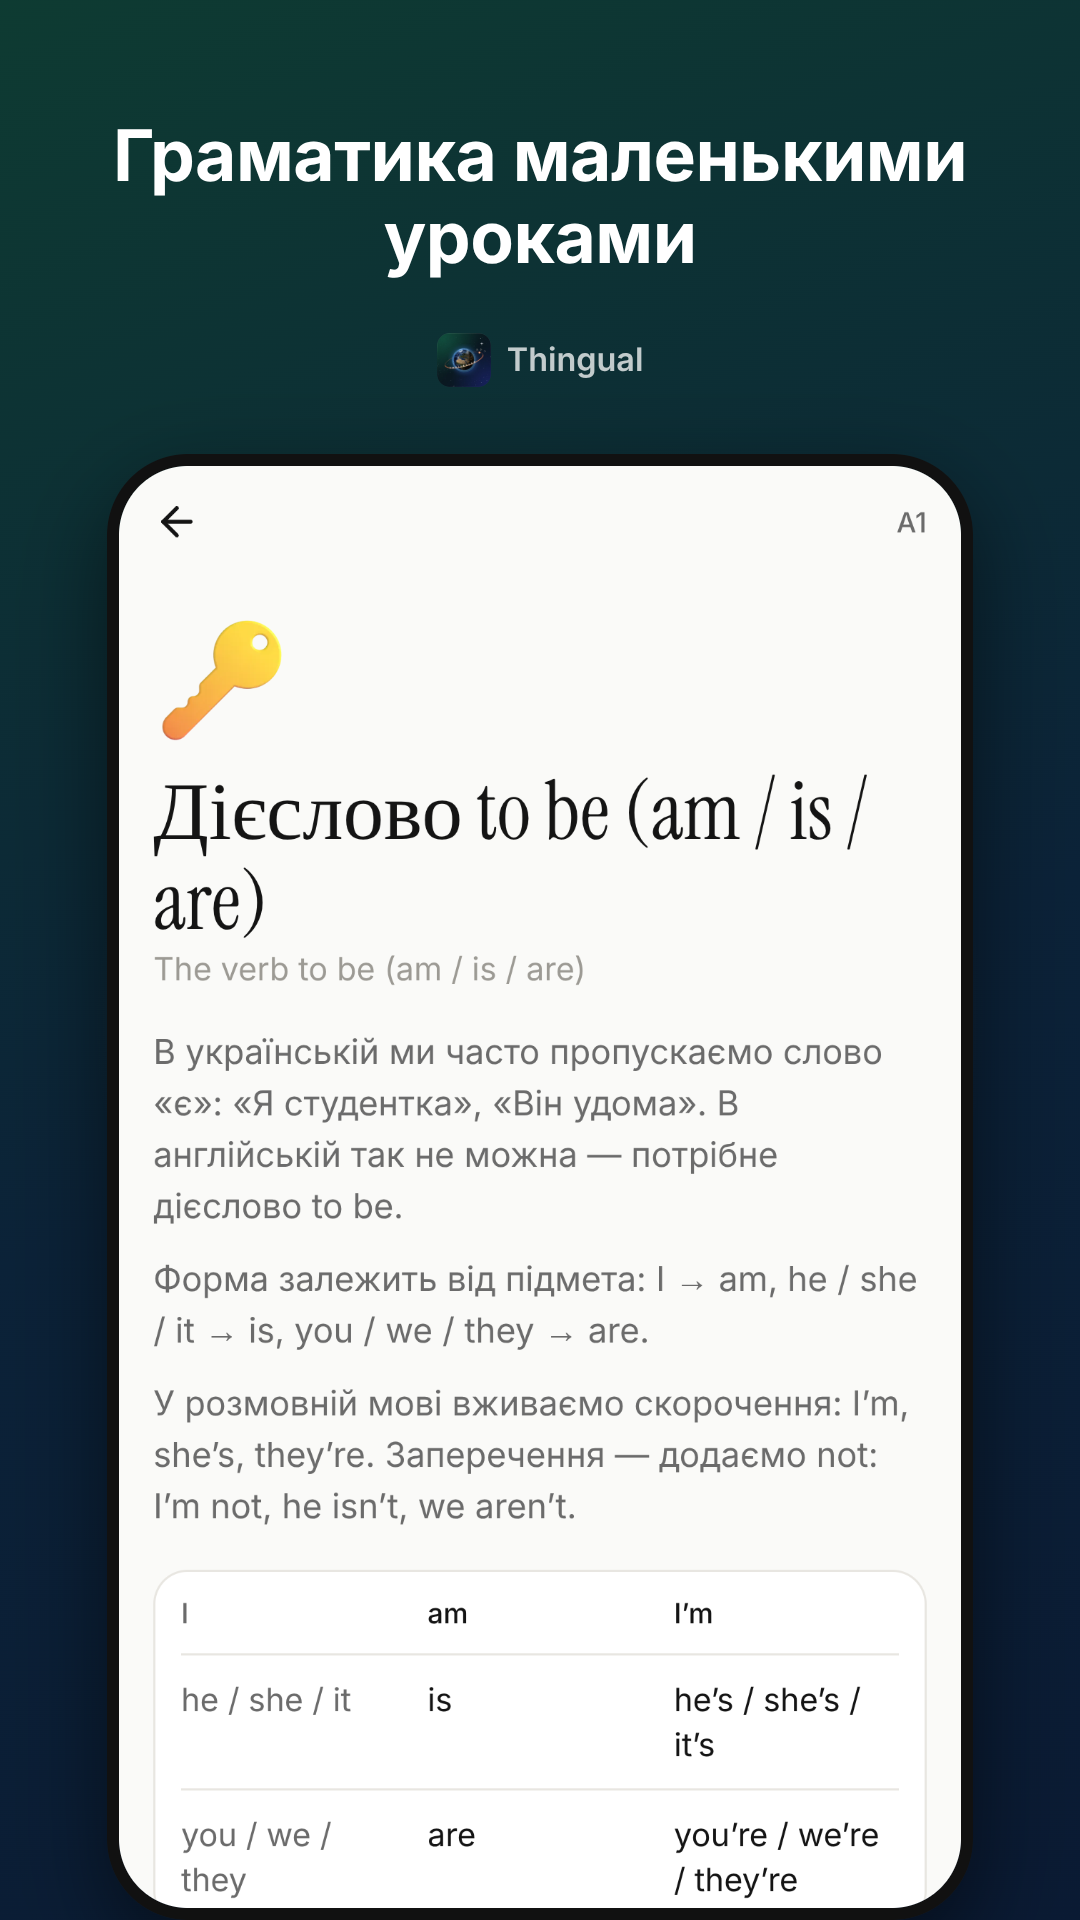
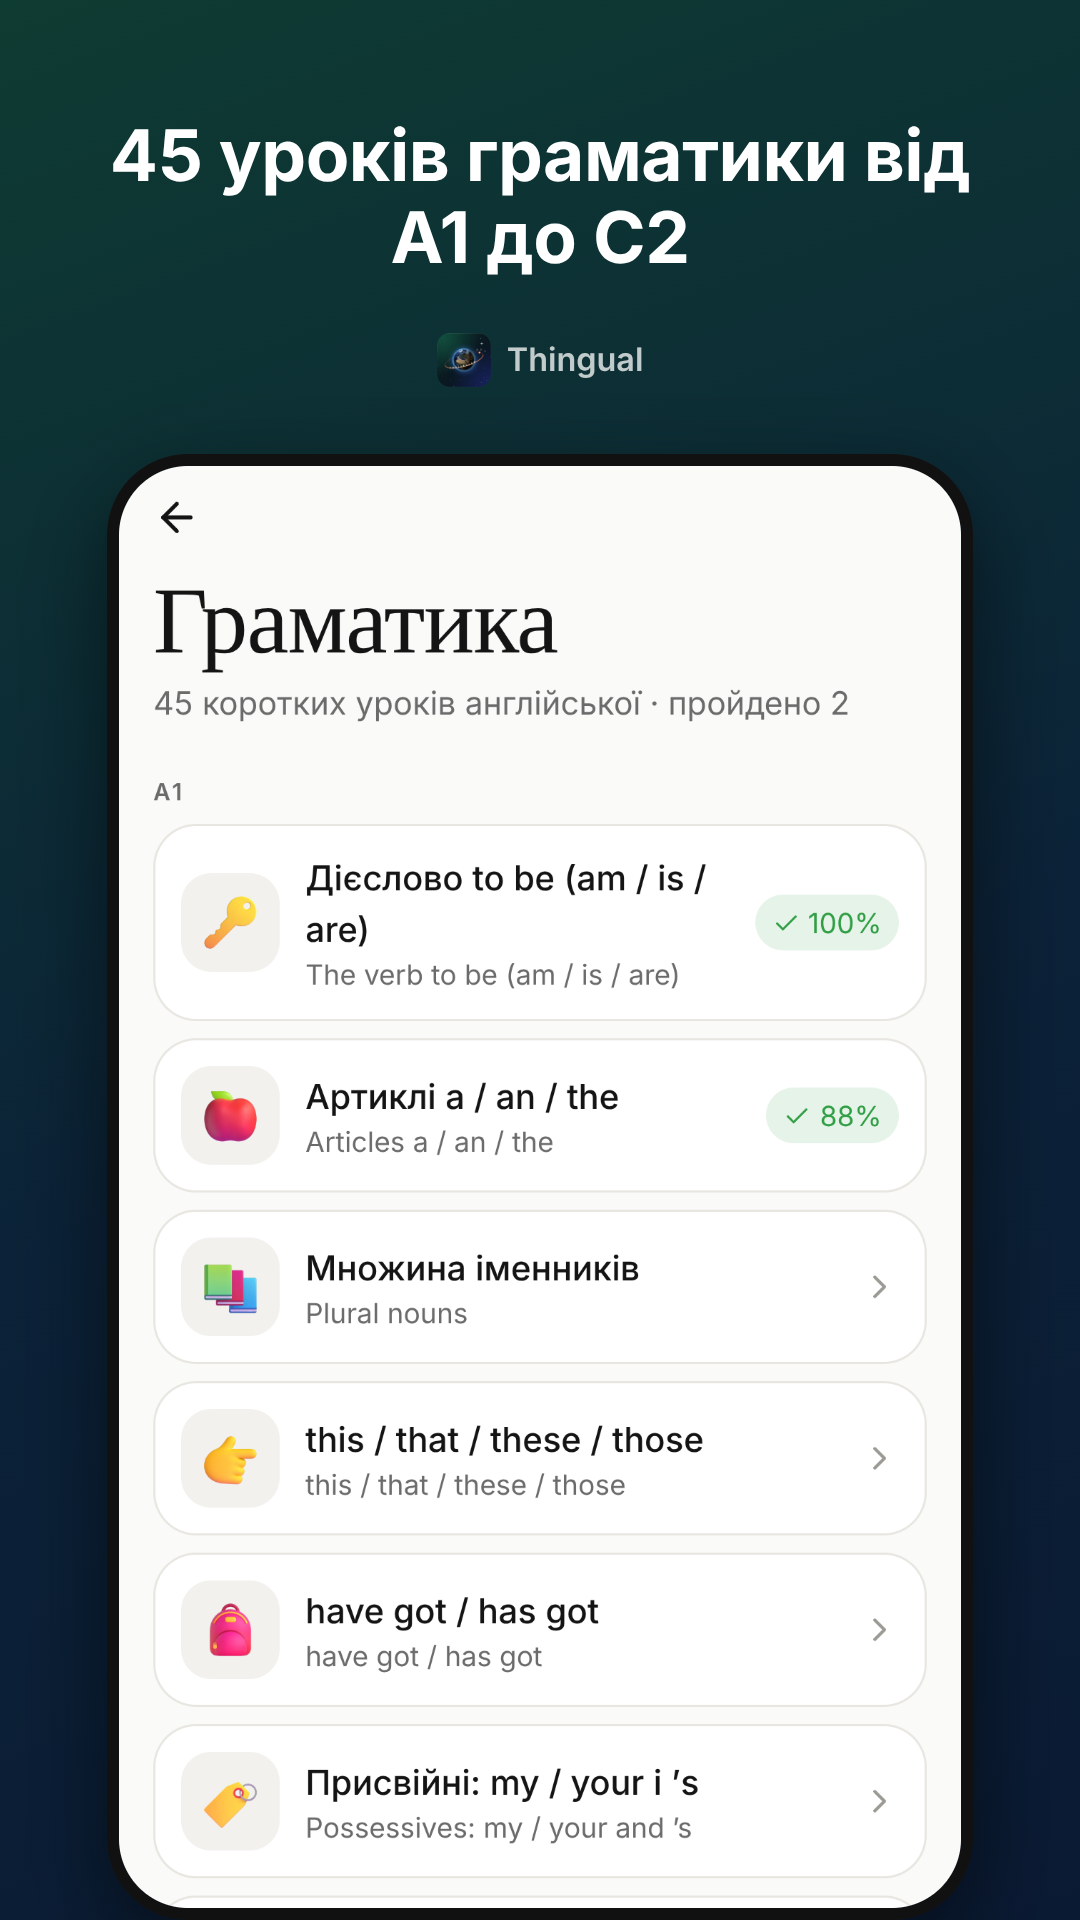
Store kit: new screenshots (A1–C2 words, My vocabulary, 45 grammar lessons) and updated listing text
Claude-Session: https://claude.ai/code/session_01GrtDANxFdif1dvNobjAdzy

diff --git a/store/LISTING.md b/store/LISTING.md
@@ -15,14 +15,14 @@ Thingual turns the world around you into a language lesson.
 POINT YOUR CAMERA
 Point at a cup, a bicycle or a tree — Thingual recognises it and shows the word in the language you learn, with the article, pronunciation and an example sentence. Save it with your own photo.
 
-16 LANGUAGES, 700+ WORDS
-English, Ukrainian, Spanish, Portuguese, German, French, Italian, Polish, Turkish, Chinese, Japanese, Korean, Arabic, Hindi, Indonesian and Vietnamese — with romanisation for non-Latin scripts. Browse 17 topics with beautiful 3D illustrations.
+16 LANGUAGES, 1,200+ WORDS, A1 TO C2
+English, Ukrainian, Spanish, Portuguese, German, French, Italian, Polish, Turkish, Chinese, Japanese, Korean, Arabic, Hindi, Indonesian and Vietnamese — with romanisation for non-Latin scripts. Browse 27 topics — from food and family to feelings, work and ideas — each word tagged with its level from A1 to C2, with beautiful 3D illustrations.
 
 PHRASES FOR REAL LIFE
 386 ready phrases for cafés, hotels, travel, the doctor and small talk in every language. For English learners: 282 phrasal verbs, 267 collocations and 142 idioms.
 
 LEARN SMARTER
-Spaced repetition (FSRS, the algorithm behind modern flashcards) schedules every review at the right moment. Seven exercise types, pronunciation feedback, grammar mini-lessons and an AI conversation partner for real dialogues.
+Spaced repetition (FSRS, the algorithm behind modern flashcards) schedules every review at the right moment. Seven exercise types, pronunciation feedback, 45 grammar lessons from A1 to C2, phrasal verbs and idioms, audiobooks read by native speakers, your own vocabulary for any word (with pictures), and an AI conversation partner for real dialogues.
 
 STAY MOTIVATED
 Daily streak with freezes and rewards, daily quests, sparks and a weekly league with friends.
@@ -38,14 +38,14 @@ Thingual перетворює світ навколо на урок мови.
 НАВЕДИ КАМЕРУ
 Наведи камеру на чашку, велосипед чи дерево — Thingual впізнає предмет і покаже слово мовою, яку ти вчиш: з артиклем, вимовою та прикладом речення. Збережи його зі своїм фото.
 
-16 МОВ, ПОНАД 700 СЛІВ
-Англійська, українська, іспанська, португальська, німецька, французька, італійська, польська, турецька, китайська, японська, корейська, арабська, гінді, індонезійська та в’єтнамська — з транскрипцією для нелатинських абеток. 17 тем із красивими 3D-ілюстраціями.
+16 МОВ, ПОНАД 1 200 СЛІВ, ВІД A1 ДО C2
+Англійська, українська, іспанська, португальська, німецька, французька, італійська, польська, турецька, китайська, японська, корейська, арабська, гінді, індонезійська та в’єтнамська — з транскрипцією для нелатинських абеток. 27 тем — від їжі й родини до почуттів, роботи та ідей — кожне слово з рівнем від A1 до C2 і красивими 3D-ілюстраціями.
 
 ФРАЗИ ДЛЯ РЕАЛЬНОГО ЖИТТЯ
 386 готових фраз для кафе, готелю, подорожей, лікаря й розмови — кожною мовою. Для англійської: 282 фразові дієслова, 267 словосполучень і 142 ідіоми з українськими поясненнями.
 
 ВЧИСЯ РОЗУМНО
-Інтервальні повторення (FSRS) нагадують слово саме тоді, коли ти от-от його забудеш. Сім типів вправ, перевірка вимови, міні-уроки граматики та AI-співрозмовник для живих діалогів.
+Інтервальні повторення (FSRS) нагадують слово саме тоді, коли ти от-от його забудеш. Сім типів вправ, перевірка вимови, 45 уроків граматики від A1 до C2, фразові дієслова й ідіоми, аудіокниги в озвученні носіїв, власний словник для будь-яких слів (з картинками) та AI-співрозмовник для живих діалогів.
 
 ТРИМАЙ МОТИВАЦІЮ
 Щоденна серія із заморозками й нагородами, завдання дня, іскри та ліга тижня з друзями.
@@ -81,4 +81,4 @@ Thingual перетворює світ навколо на урок мови.
 - No tracking, no ads, no data sold. Data encrypted in transit. Users can delete their account in the app.
 
 ## Review notes (paste into App Review Information)
-No login is required — the app creates an anonymous account automatically. To test community features, open the World tab and post a photo; you will be asked for an age group and to accept the community terms first. Objectionable content can be reported (⋯ on any post) and users can be blocked; photos are checked by an AI safety filter before publishing. Account deletion: Settings → Privacy → Delete account.
+No login is required — the app creates an anonymous account automatically. To test community features, open the World tab and post a photo; you will be asked for an age group and to accept the community terms first. Objectionable content can be reported (⋯ on any post) and users can be blocked; photos are checked by an AI safety filter before publishing. Account deletion: Settings → Privacy → Delete account. Subscriptions (Thingual Max, monthly/yearly) are sold through the store via RevenueCat; Restore purchases is on the Max screen.
